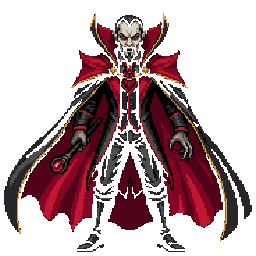
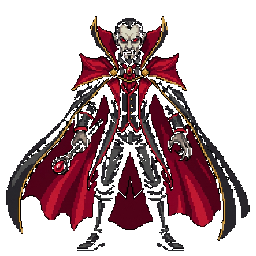
fix(bosses): clean boss sprites, orient towards player, fix boss strike button, and ensure hazards only approach from front

diff --git a/lib/game/components/campaign_boss.dart b/lib/game/components/campaign_boss.dart
@@ -21,6 +21,11 @@ class CampaignBoss extends PositionComponent
   final LevelDefinition definition;
   Sprite? _bossSprite;
   double _elapsed = 0;
+  double _damageFlashTimer = 0;
+
+  void flashDamage() {
+    _damageFlashTimer = 0.28;
+  }
 
   Color get _accent => _bossAccent(definition.level);
 
@@ -58,6 +63,9 @@ class CampaignBoss extends PositionComponent
   void update(double dt) {
     super.update(dt);
     _elapsed += dt;
+    if (_damageFlashTimer > 0) {
+      _damageFlashTimer -= dt;
+    }
     final hover = math.sin(_elapsed * 3.5) * 6.0;
     position.y = game.size.y - DinoRunGame.virtualGroundHeight + hover;
   }
@@ -75,11 +83,28 @@ class CampaignBoss extends PositionComponent
         shadowRect,
         Paint()..color = Colors.black.withValues(alpha: 0.40),
       );
-      _bossSprite!.render(
-        canvas,
-        size: size,
-        overridePaint: Paint()..filterQuality = FilterQuality.none,
-      );
+      if (_damageFlashTimer > 0) {
+        final recoil = math.sin(_damageFlashTimer * 35) * 7.0;
+        canvas.save();
+        canvas.translate(recoil, 0);
+        _bossSprite!.render(
+          canvas,
+          size: size,
+          overridePaint: Paint()
+            ..colorFilter = const ColorFilter.mode(
+              Color(0xFFFF3333),
+              BlendMode.srcATop,
+            )
+            ..filterQuality = FilterQuality.none,
+        );
+        canvas.restore();
+      } else {
+        _bossSprite!.render(
+          canvas,
+          size: size,
+          overridePaint: Paint()..filterQuality = FilterQuality.none,
+        );
+      }
     } else {
       final body = Path()
         ..moveTo(14, height)
@@ -176,12 +201,18 @@ class CampaignBossHazard extends PositionComponent
         ((game.runConfiguration.seed + game.bossAttackOrdinal * 97) % 61) / 100;
     switch (_profile.motion) {
       case _HazardMotion.stationary:
-        position = Vector2(game.size.x * (0.18 + _laneSeed), _ground - height);
+        position = Vector2(
+          game.size.x * (0.35 + _laneSeed * 0.35),
+          _ground - height,
+        );
       case _HazardMotion.falling:
-        position = Vector2(game.size.x * (0.18 + _laneSeed), -height);
+        position = Vector2(
+          game.size.x * (0.30 + _laneSeed * 0.40),
+          -height,
+        );
       case _HazardMotion.charge || _HazardMotion.wave:
         position = Vector2(
-          cue.fromRight ? game.size.x + width : -width,
+          game.size.x + width,
           _ground - height,
         );
     }
@@ -206,13 +237,9 @@ class CampaignBossHazard extends PositionComponent
       case _HazardMotion.falling:
         y += _profile.speed * (1 + level * 0.025) * dt;
       case _HazardMotion.charge:
-        x +=
-            (cue.fromRight ? -1 : 1) *
-            _profile.speed *
-            (1 + game.bossPhase * 0.08) *
-            dt;
+        x -= _profile.speed * (1 + game.bossPhase * 0.08) * dt;
       case _HazardMotion.wave:
-        x += (cue.fromRight ? -1 : 1) * _profile.speed * dt;
+        x -= _profile.speed * dt;
         y =
             _ground -
             height -

diff --git a/lib/game/components/boss_action_button.dart b/lib/game/components/boss_action_button.dart
@@ -9,9 +9,8 @@ class BossActionButton extends PositionComponent
   BossActionButton()
     : super(size: Vector2.all(84), anchor: Anchor.bottomRight, priority: 120);
 
-  final Paint _fill = Paint()..color = const Color(0xFFE86A17);
+  final Paint _fill = Paint();
   final Paint _border = Paint()
-    ..color = Colors.white
     ..style = PaintingStyle.stroke
     ..strokeWidth = 4;
   late final TextPaint _label = TextPaint(
@@ -22,6 +21,19 @@ class BossActionButton extends PositionComponent
       shadows: [Shadow(color: Colors.black, blurRadius: 3)],
     ),
   );
+  late final TextPaint _cooldownLabel = TextPaint(
+    style: TextStyle(
+      color: Colors.white.withValues(alpha: 0.5),
+      fontSize: 13,
+      fontWeight: FontWeight.bold,
+    ),
+  );
+
+  double _pressTimer = 0;
+
+  void triggerPress() {
+    _pressTimer = 0.15;
+  }
 
   @override
   Future<void> onLoad() async {
@@ -35,22 +47,73 @@ class BossActionButton extends PositionComponent
   }
 
   @override
+  bool containsPoint(Vector2 point) {
+    final left = position.x - width;
+    final top = position.y - height;
+    final right = position.x;
+    final bottom = position.y;
+    return point.x >= left - 8 &&
+        point.x <= right + 8 &&
+        point.y >= top - 8 &&
+        point.y <= bottom + 8;
+  }
+
+  @override
+  void update(double dt) {
+    super.update(dt);
+    if (_pressTimer > 0) {
+      _pressTimer -= dt;
+    }
+  }
+
+  @override
   void render(Canvas canvas) {
     super.render(canvas);
+    final canAct = game.canUseBossAction;
+
+    if (canAct) {
+      _fill.color = const Color(0xFFE86A17);
+      _border.color = Colors.white;
+    } else {
+      _fill.color = const Color(0xFF4A3425);
+      _border.color = Colors.grey.withValues(alpha: 0.6);
+    }
+
     final center = Offset(width / 2, height / 2);
-    canvas.drawCircle(center, width / 2, _fill);
-    canvas.drawCircle(center, width / 2 - 2, _border);
-    _label.render(
-      canvas,
-      'GOLPE\nJEFE · E',
-      Vector2(width / 2, height / 2),
-      anchor: Anchor.center,
-    );
+    final radius = _pressTimer > 0 ? (width / 2) * 0.92 : width / 2;
+
+    canvas.drawCircle(center, radius, _fill);
+    canvas.drawCircle(center, radius - 2, _border);
+
+    if (canAct) {
+      canvas.drawCircle(
+        center,
+        radius + 2,
+        Paint()
+          ..color = const Color(0xFFFFD54F).withValues(alpha: 0.6)
+          ..style = PaintingStyle.stroke
+          ..strokeWidth = 2,
+      );
+      _label.render(
+        canvas,
+        'GOLPE\nJEFE · E',
+        Vector2(width / 2, height / 2),
+        anchor: Anchor.center,
+      );
+    } else {
+      _cooldownLabel.render(
+        canvas,
+        'ESPERA...',
+        Vector2(width / 2, height / 2),
+        anchor: Anchor.center,
+      );
+    }
   }
 
   @override
   void onTapDown(TapDownEvent event) {
     game.useBossAction();
+    triggerPress();
     event.handled = true;
   }
 }

diff --git a/lib/game/dino_run_game.dart b/lib/game/dino_run_game.dart
@@ -68,6 +68,7 @@ class DinoRunGame extends FlameGame
   int get bossHealthRemaining => _levelRuntime?.bossHealthRemaining ?? 0;
   double get bossHealthFraction => _levelRuntime?.bossHealthFraction ?? 0;
   int get bossPhase => _levelRuntime?.bossPhase ?? 0;
+  bool get canUseBossAction => _levelRuntime?.canUseBossAction ?? false;
   LevelDefinition? get currentLevelDefinition => _levelRuntime?.definition;
   int get bossesDefeated => _bossRushProgress?.bossesDefeated ?? 0;
   int bossAttackOrdinal = 0;
@@ -597,6 +598,13 @@ class DinoRunGame extends FlameGame
       ignoreCooldown: ignoresCooldown,
     );
     if (damage == 0) return;
+    try {
+      if (_configuration.audioEnabled) {
+        FlameAudio.play('Hit.wav');
+      }
+    } catch (_) {}
+    _boss?.flashDamage();
+    _bossActionButton?.triggerPress();
     _eventSink(
       BossDamagedEvent(
         bossId: runtime.definition.bossId,
@@ -771,6 +779,14 @@ class DinoRunGame extends FlameGame
       return;
     }
 
+    final bossButton = _bossActionButton;
+    if (bossButton != null &&
+        bossButton.containsPoint(event.canvasPosition)) {
+      useBossAction();
+      event.handled = true;
+      return;
+    }
+
     if (overlays.isActive('GameOverMenu')) {
       resetGame();
     } else if (_runActive) {
@@ -788,9 +804,12 @@ class DinoRunGame extends FlameGame
     KeyEvent event,
     Set<LogicalKeyboardKey> keysPressed,
   ) {
-    final isSpace = keysPressed.contains(LogicalKeyboardKey.space);
-    final isActive = keysPressed.contains(LogicalKeyboardKey.keyA);
-    final isBossAction = keysPressed.contains(LogicalKeyboardKey.keyE);
+    final isSpace = keysPressed.contains(LogicalKeyboardKey.space) ||
+        (event is KeyDownEvent && event.logicalKey == LogicalKeyboardKey.space);
+    final isActive = keysPressed.contains(LogicalKeyboardKey.keyA) ||
+        (event is KeyDownEvent && event.logicalKey == LogicalKeyboardKey.keyA);
+    final isBossAction = keysPressed.contains(LogicalKeyboardKey.keyE) ||
+        (event is KeyDownEvent && event.logicalKey == LogicalKeyboardKey.keyE);
 
     if (event is KeyDownEvent && isSpace) {
       if (overlays.isActive('GameOverMenu')) {

diff --git a/lib/game/domain/level_runtime.dart b/lib/game/domain/level_runtime.dart
@@ -386,7 +386,7 @@ class LevelRuntime {
 
   BossAttackCue _nextAttack() {
     final mixed = (seed ^ ((_attackIndex + 1) * 0x45d9f3b)) & 0x7fffffff;
-    final fromRight = mixed.isEven;
+    const fromRight = true;
     final pattern = definition.attackPattern;
     final patternIndex = (_attackIndex + bossPhase + mixed) % pattern.length;
     _attackIndex += 1;
